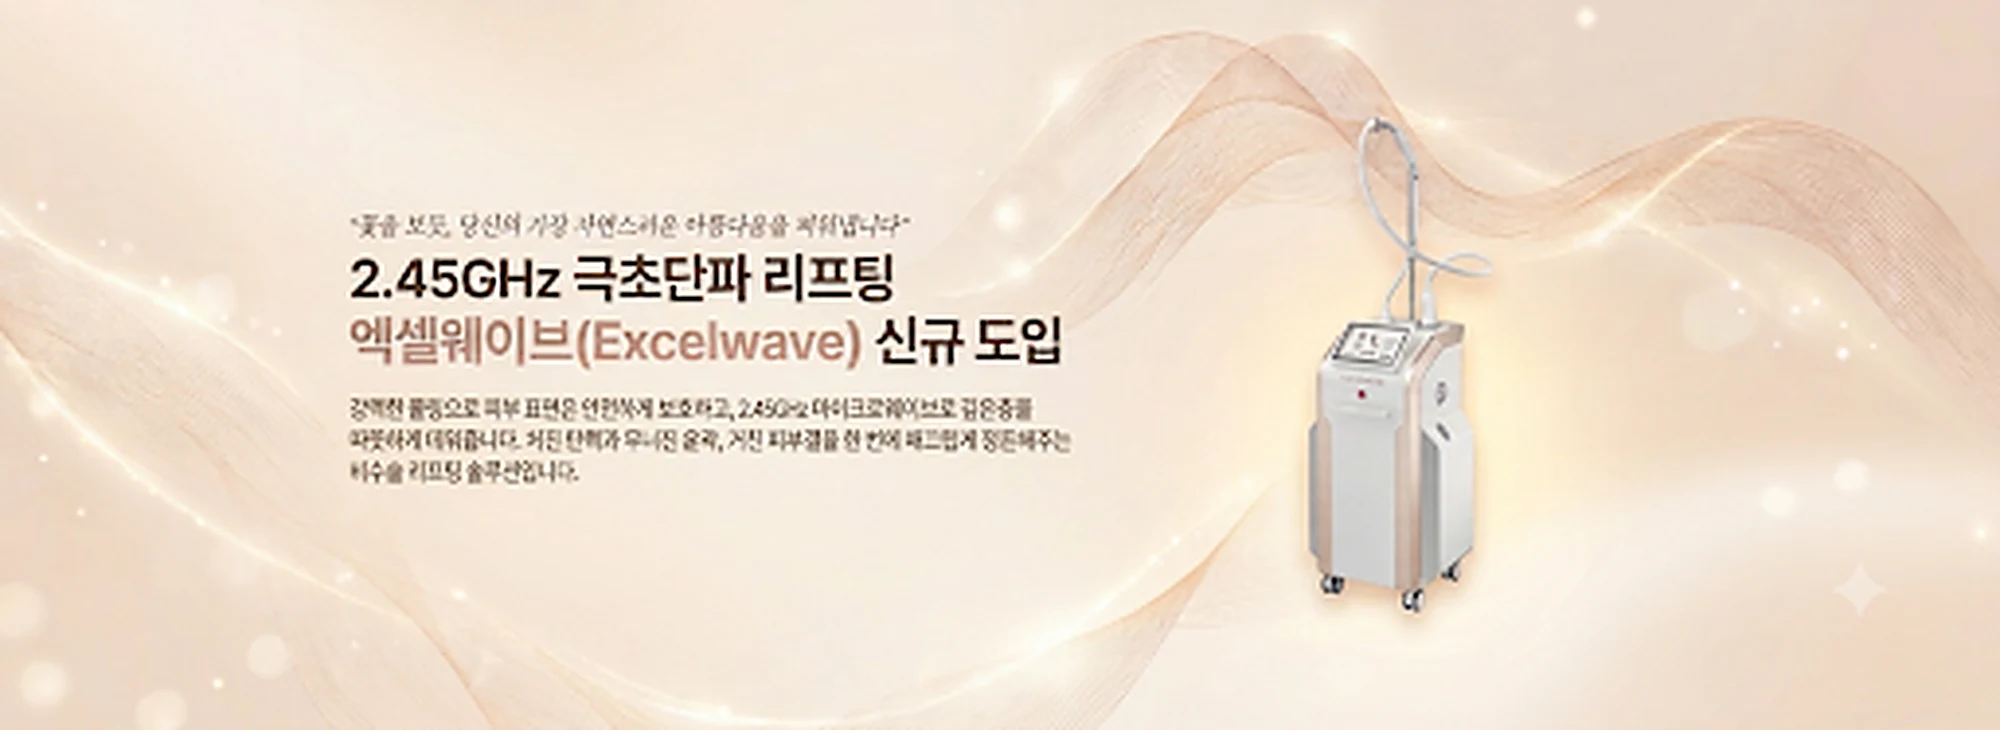
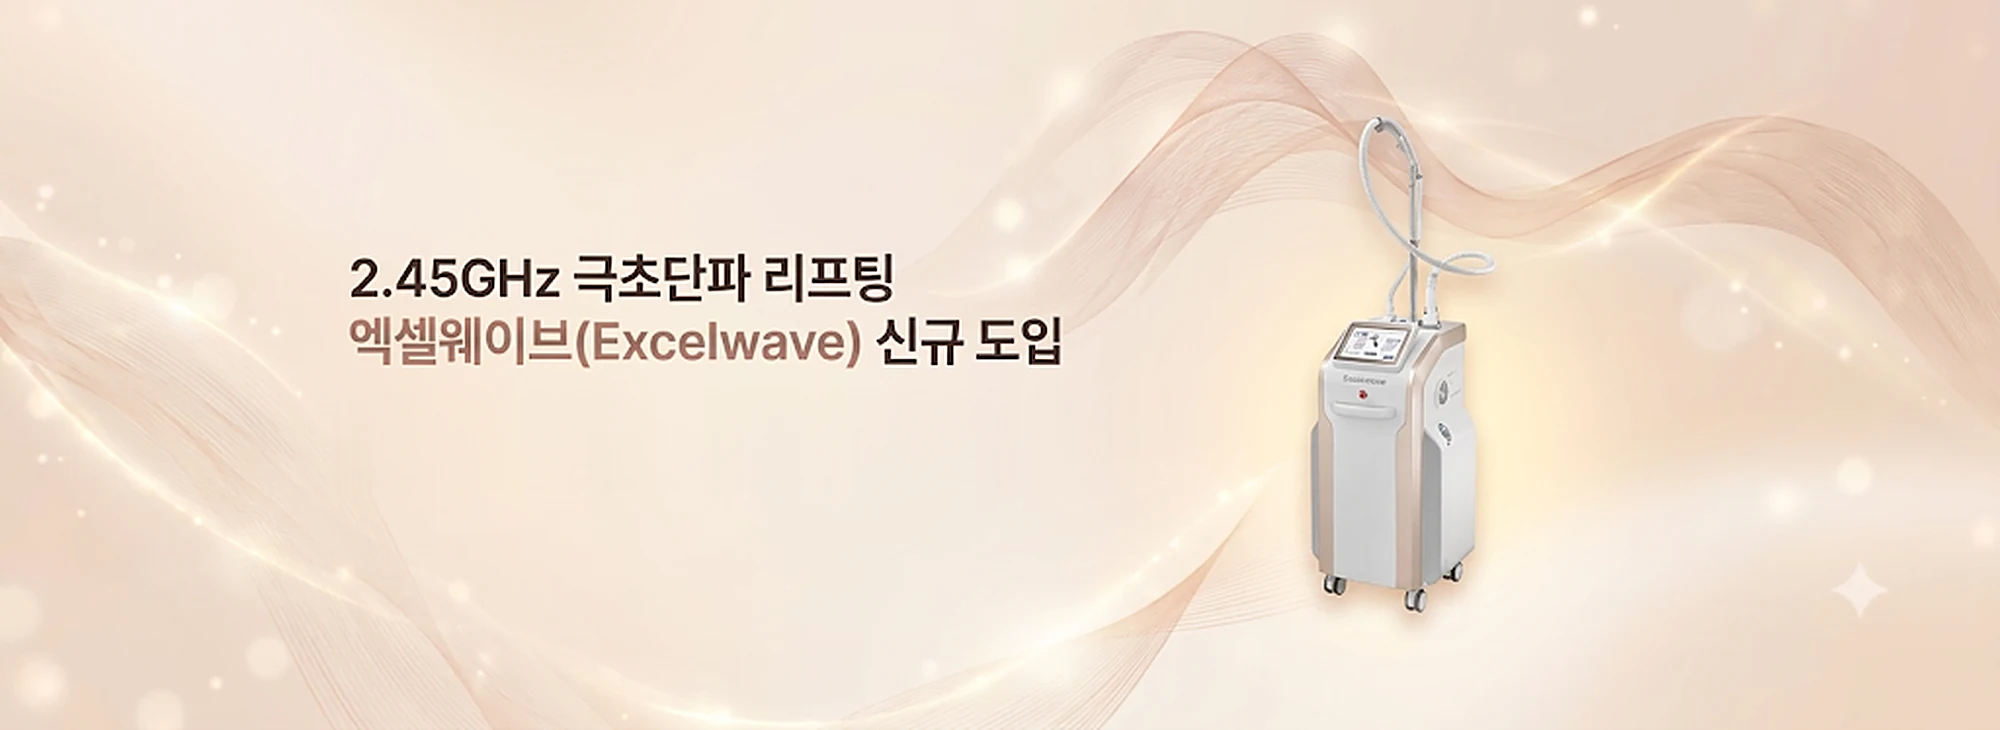
PC 메인 엑셀웨이브 배너를 새 이미지로 교체, 깨진 설명 글씨는 글자로 다시 표시
- PC용 두 번째 메인 배너를 원장님이 주신 새 이미지(1024px)로 교체, 버튼은 그대로 유지
- 이미지 속 설명 글씨가 깨져 있어(강력현 플팅 등) 지우고, 원래 설명 문구를 선명한 글자로 얹음
- '엑셀웨이브(Excelwave)' 글씨를 모바일 배너와 같은 로즈골드 색으로 변경

Claude-Session: https://claude.ai/code/session_01NqGy3YnazTCXrV5ndmHp8o

diff --git a/src/App.tsx b/src/App.tsx
@@ -467,12 +467,19 @@ export default function App() {
         >
           {/* PC·태블릿: 가로 배너 */}
           <div className="hidden md:flex h-full items-center justify-center">
-            <div className="relative w-full aspect-[2000/729]">
+            <div className="@container relative w-full aspect-[2000/730]">
               <img
                 src={EXCELWAVE_BANNER_SRC}
                 alt="2.45GHz 극초단파 리프팅 엑셀웨이브(Excelwave) 신규 도입"
                 className="w-full h-full object-contain [mask-image:linear-gradient(to_bottom,transparent,black_10%,black_90%,transparent)]"
               />
+              {/* 배너 이미지의 설명 글씨가 깨져 있어 이미지에서 지우고, 원래 문구를 글자로 얹음 (배너 너비에 맞춰 크기 조절) */}
+              <p
+                className="absolute left-[17.2%] top-[54%] w-[37%] text-[#4A3F38] break-keep leading-[1.55]"
+                style={{ fontSize: '1.07cqw' }}
+              >
+                강력한 쿨링으로 피부 표면은 안전하게 보호하고, 2.45GHz 마이크로웨이브로 깊은 층을 따뜻하게 자극합니다. 처진 탄력과 무너진 윤곽, 거친 피부결을 한 번에 매끄럽게 정돈해 주는 비수술 리프팅 솔루션입니다.
+              </p>
               {/* 데스크톱: 배너 문구 아래에 버튼 배치 */}
               <div className="hidden md:flex absolute left-[17.5%] top-[71%] flex-wrap gap-3">
                 <button
